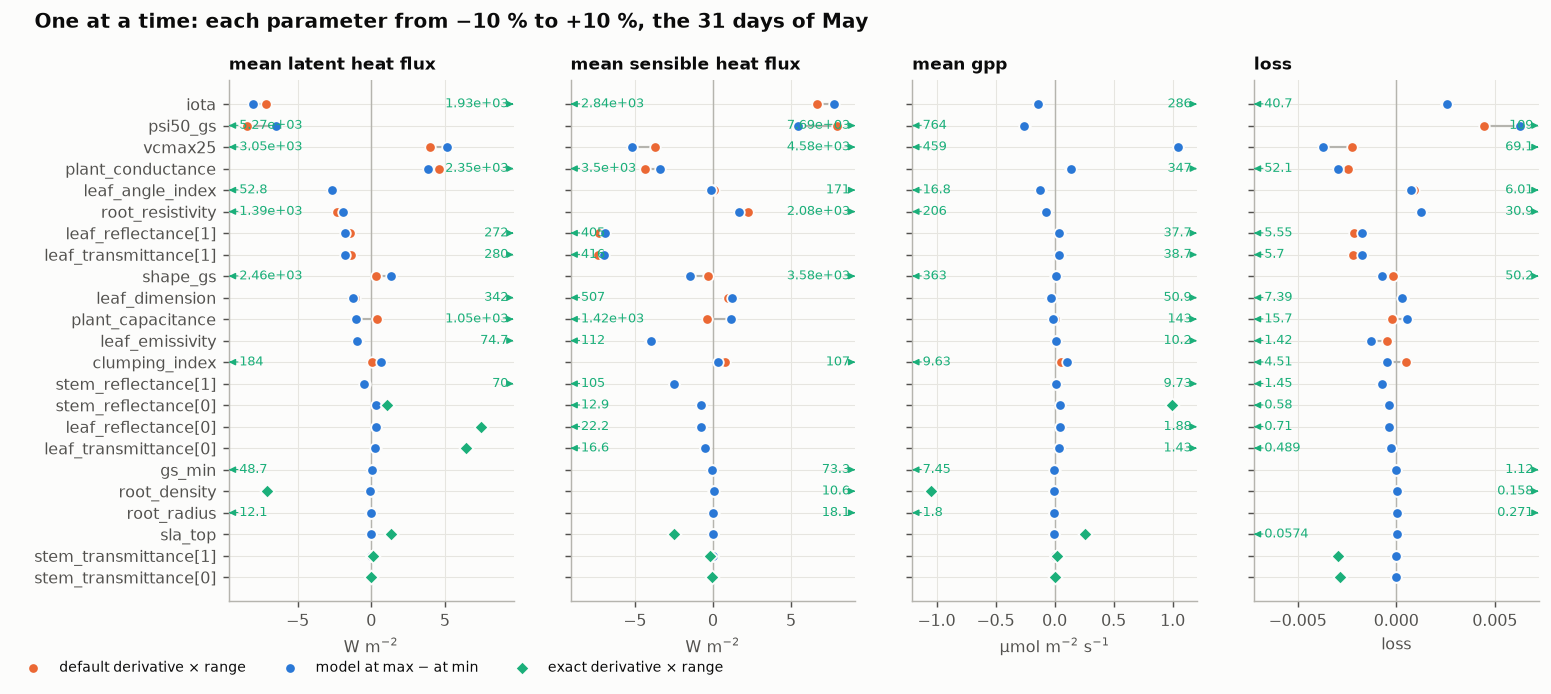
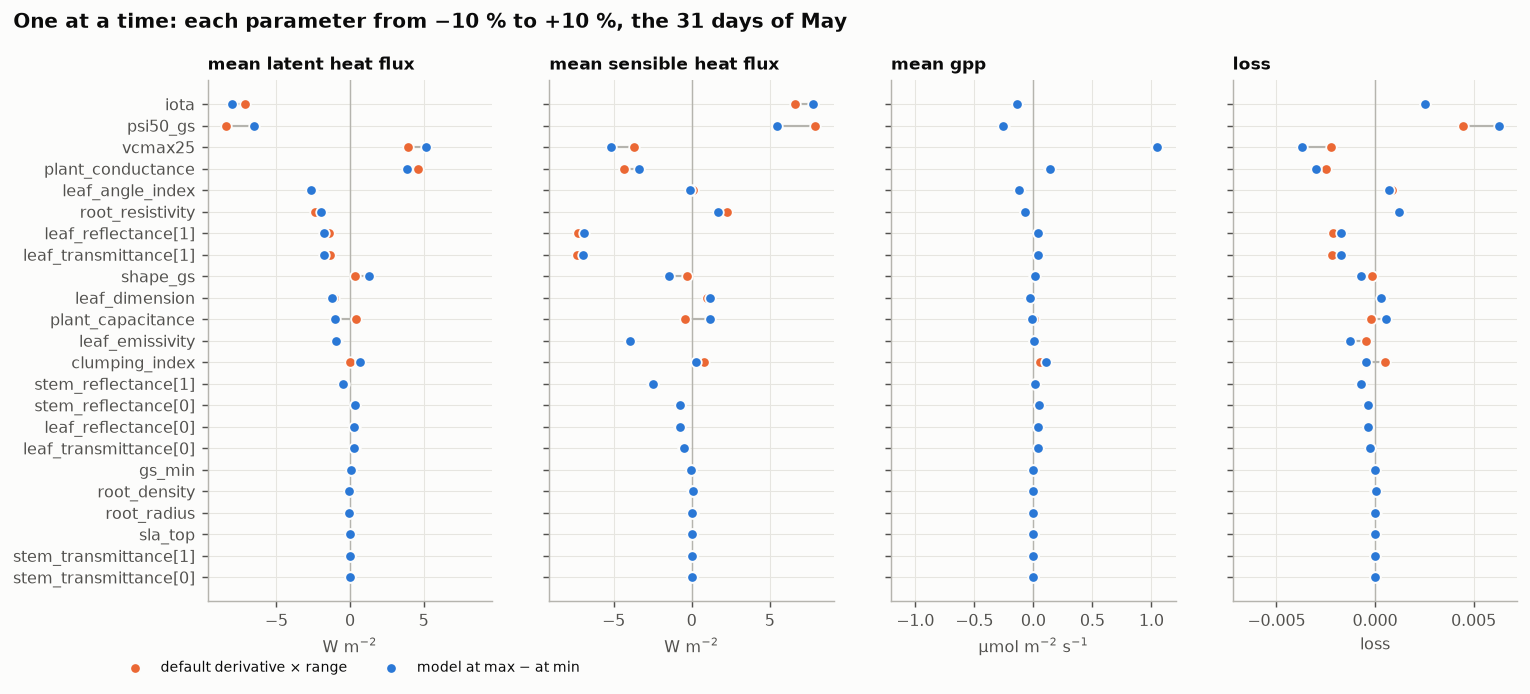
CHATS gradient experiments: oat_month.png with the default derivative only (O82)

diff --git a/experiments/chats_gradients/plots.py b/experiments/chats_gradients/plots.py
@@ -252,7 +252,12 @@ if want("baseline") and (RESULTS / "table.csv").exists():
     # the one-at-a-time experiment
     for exp, exp_x, title, name in [
         ("baseline", "exact_water_stress", "one-day windows (median of 31 days)", "oat_1day.png"),
-        ("month", "month_exact", "the 31 days of May", "oat_month.png"),
+        (
+            "month",
+            None,
+            "the 31 days of May",
+            "oat_month.png",
+        ),  # default derivative only (maintainer)
     ]:
         d = t[t.experiment == exp].drop_duplicates(["first_chunk", "input", "output"], keep="last")
         d = d[~d.input.isin(zero)]

diff --git a/experiments/chats_gradients/README.md b/experiments/chats_gradients/README.md
@@ -225,12 +225,13 @@ the 31-day Hessian 3 hours.
   s-1 in GPP (Vcmax). Derivative × range predicts the difference between the maximum and
   the minimum within 5 % for GPP; for the heat fluxes it is off by up to 24 % (month) for
   ψ50 (a curved response and the stabilized derivative together).
-  The green diamonds are the same with `water_stress_derivative: exact` (every day and the
-  month run again with that setting). Over one day the exact derivative is the better
+  The green diamonds of `oat_1day.png` are the same with `water_stress_derivative: exact`
+  (every day and the month run again with that setting; `oat_month.png` shows the default
+  derivative only, maintainer 2026-11-17). Over one day the exact derivative is the better
   predictor (median of 31 days: off by 0.4 % of the largest effect in latent heat against
   0.9 % for the default; ψ50 and plant conductance sit on the model's difference). Over
-  the month it is useless: thousands of W m-2 for an effect of 8, wrong signs (the numbers
-  at the arrows), the growth without bound that decision 124 describes. There its forward
+  the month it is useless: thousands of W m-2 for an effect of 8, wrong signs (numbers in
+  `summary.txt`), the growth without bound that decision 124 describes. There its forward
   and reverse mode also differ by a constant factor of 1.44 for every parameter (not
   diagnosed; one exploding direction whose size depends on round-off would do that).
 
